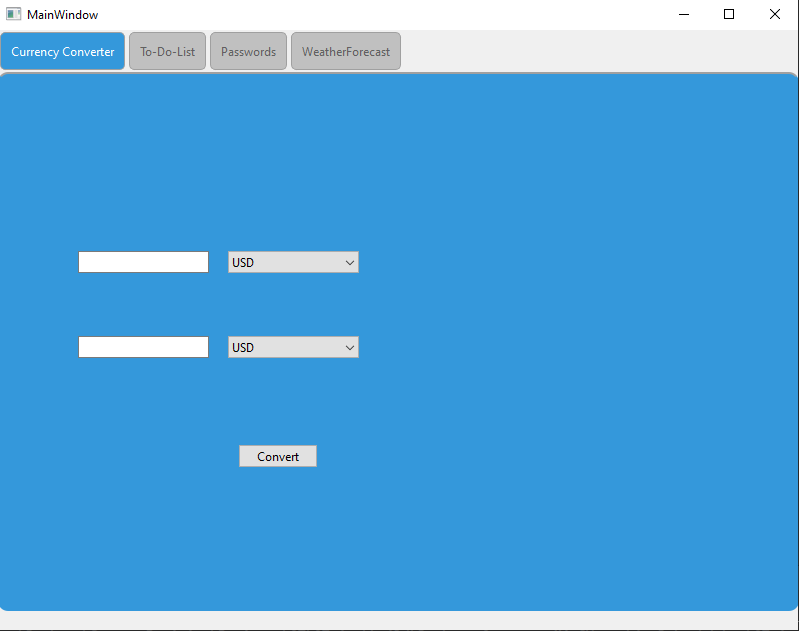
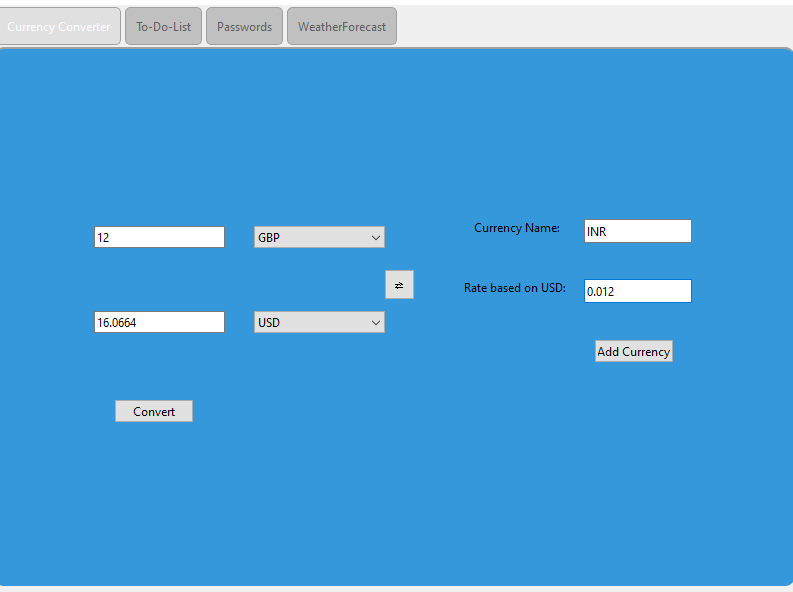
improved project 1

diff --git a/_projects/1_project.md b/_projects/1_project.md
@@ -8,7 +8,7 @@ category: fun
 related_publications: false
 ---
 
-The 4-in-1 QT App is a comprehensive tool designed to streamline everyday tasks. It includes a weather forecasting feature, currency conversion, a password manager, and a note-taking function, all wrapped in a user-friendly interface.
+The 4-in-1 Qt App is a versatile desktop application built with the Qt framework, offering a suite of tools designed to simplify daily tasks. The app includes a Weather Forecast tool, Currency Converter, Password Manager, and Note-Taking feature, all accessible through a modern and user-friendly interface.
 
 <div class="row">
     <div class="col-sm mt-3 mt-md-0">
@@ -17,22 +17,44 @@ The 4-in-1 QT App is a comprehensive tool designed to streamline everyday tasks.
     <div class="col-sm mt-3 mt-md-0">
         {% include figure.liquid loading="eager" path="assets/img/currencyconverter.PNG" title="Currency Converter Feature" class="img-fluid rounded z-depth-1" %}
     </div>
+</div>
+<div class="caption">
+    Showcase of features: Left - Weather Forecast, Right - Currency Converter.
+</div>
+
+### Key Features
+
+- **Weather Forecast**: Provides real-time weather updates for various locations, including temperature, wind speed, and humidity. 
+- **Currency Converter**: Easily convert between currencies using real-time exchange rates fetched from an API.
+- **Password Manager**: Securely store and retrieve passwords, helping users manage their credentials safely.
+- **Note-Taking**: A simple yet effective task management tool allowing users to add, edit, and complete tasks.
+
+<div class="row">
     <div class="col-sm mt-3 mt-md-0">
         {% include figure.liquid loading="eager" path="assets/img/passwords.PNG" title="Password Manager Feature" class="img-fluid rounded z-depth-1" %}
     </div>
-</div>
-<div class="caption">
-    Showcase of features: Left - Weather Forecast, Middle - Currency Converter, Right - Password Manager.
-</div>
-
-<div class="row">
     <div class="col-sm mt-3 mt-md-0">
         {% include figure.liquid loading="eager" path="assets/img/todolist.PNG" title="Note-Taking Feature" class="img-fluid rounded z-depth-1" %}
     </div>
 </div>
 <div class="caption">
-    The Note-Taking feature allows users to manage tasks efficiently.
+    Left - Password Manager, Right - Note-Taking Feature.
 </div>
+
+### App Features Overview
+
+#### **Weather Forecast**
+Get real-time weather updates, including temperature, wind speed, and humidity for various cities around the world.
+
+#### **Currency Converter**
+Convert between multiple currencies using real-time exchange rates provided by a currency conversion API. Enter the amount, select the currencies, and get instant results.
+
+#### **Password Manager**
+A secure tool that allows users to store and retrieve passwords in a safe environment. Easily access stored credentials, while keeping them encrypted for security.
+
+#### **Note-Taking (To-Do List)**
+Add, edit, and mark tasks as complete. Keep track of daily tasks and manage to-do lists with ease.
+
 <div class="row justify-content-sm-center">
     <div class="col-sm-8 mt-3 mt-md-0">
         {% include figure.liquid path="assets/img/overall_design.jpg" title="Overall Design" class="img-fluid rounded z-depth-1" %}
@@ -42,17 +64,33 @@ The 4-in-1 QT App is a comprehensive tool designed to streamline everyday tasks.
     </div>
 </div>
 <div class="caption">
-    The overall design of the app showcases its user-friendly interface.
+    The overall design of the 4-in-1 Qt App provides a cohesive and intuitive user experience.
 </div>
-{% raw %}
+
+### Running the Executable
+
+To run the executable for this Qt application:
+
+1. **Download and Extract**: Download the entire project zip file and extract it to your desired location.
+2. **Navigate to Executable Directory**: Use File Explorer to go to the directory where the executable is located: C:\Users\lucap\Desktop\Summer Revision\Projects\QT\QT4in1\build\Desktop_Qt_6_7_1_MinGW_64_bit-Debug\debug
+
+3. **Run the Executable**: Double-click the executable file in the `debug` folder to launch the application.
+
+### Technologies Used
+
+- **C++**: Core logic and functionality of the application.
+- **Qt Framework**: For building the GUI and managing app functions.
+- **API Integrations**: Fetching live data for weather forecasts and currency conversion.
 
 ```html
 <div class="row justify-content-sm-center">
-  <div class="col-sm-8 mt-3 mt-md-0">
-    {% include figure.liquid path="assets/img/overall_design.jpg" title="Overall Design" class="img-fluid rounded z-depth-1" %}
-  </div>
-  <div class="col-sm-4 mt-3 mt-md-0">
-    {% include figure.liquid path="assets/img/ui_example.jpg" title="User Interface Example" class="img-fluid rounded z-depth-1" %}
-  </div>
+<div class="col-sm-8 mt-3 mt-md-0">
+ {% include figure.liquid path="assets/img/overall_design.jpg" title="Overall Design" class="img-fluid rounded z-depth-1" %}
 </div>
-{% endraw %}
+<div class="col-sm-4 mt-3 mt-md-0">
+ {% include figure.liquid path="assets/img/ui_example.jpg" title="User Interface Example" class="img-fluid rounded z-depth-1" %}
+</div>
+</div>
+
+ 
+   

diff --git a/_projects/2_project.md b/_projects/2_project.md
@@ -4,7 +4,7 @@ title: Restaurant Review App
 description: A full-stack web application for browsing, reviewing, and managing restaurants.
 img: assets/img/RestaurantReview.PNG
 importance: 1
-category: fun
+category: work
 related_publications: false
 ---
 
